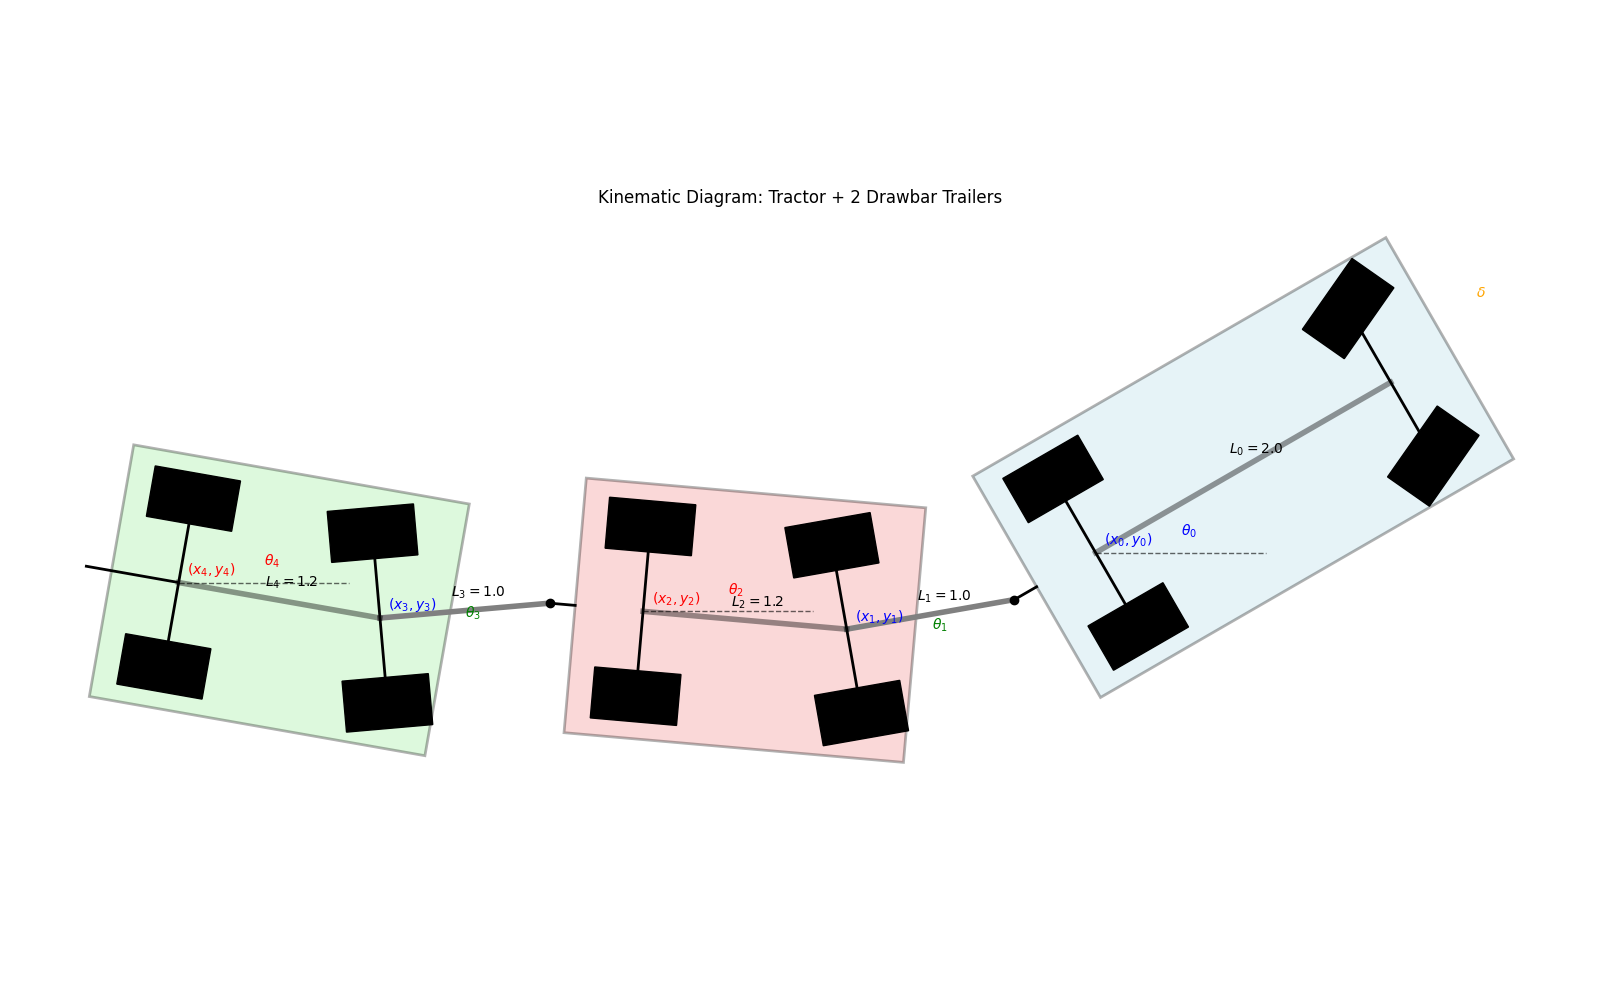
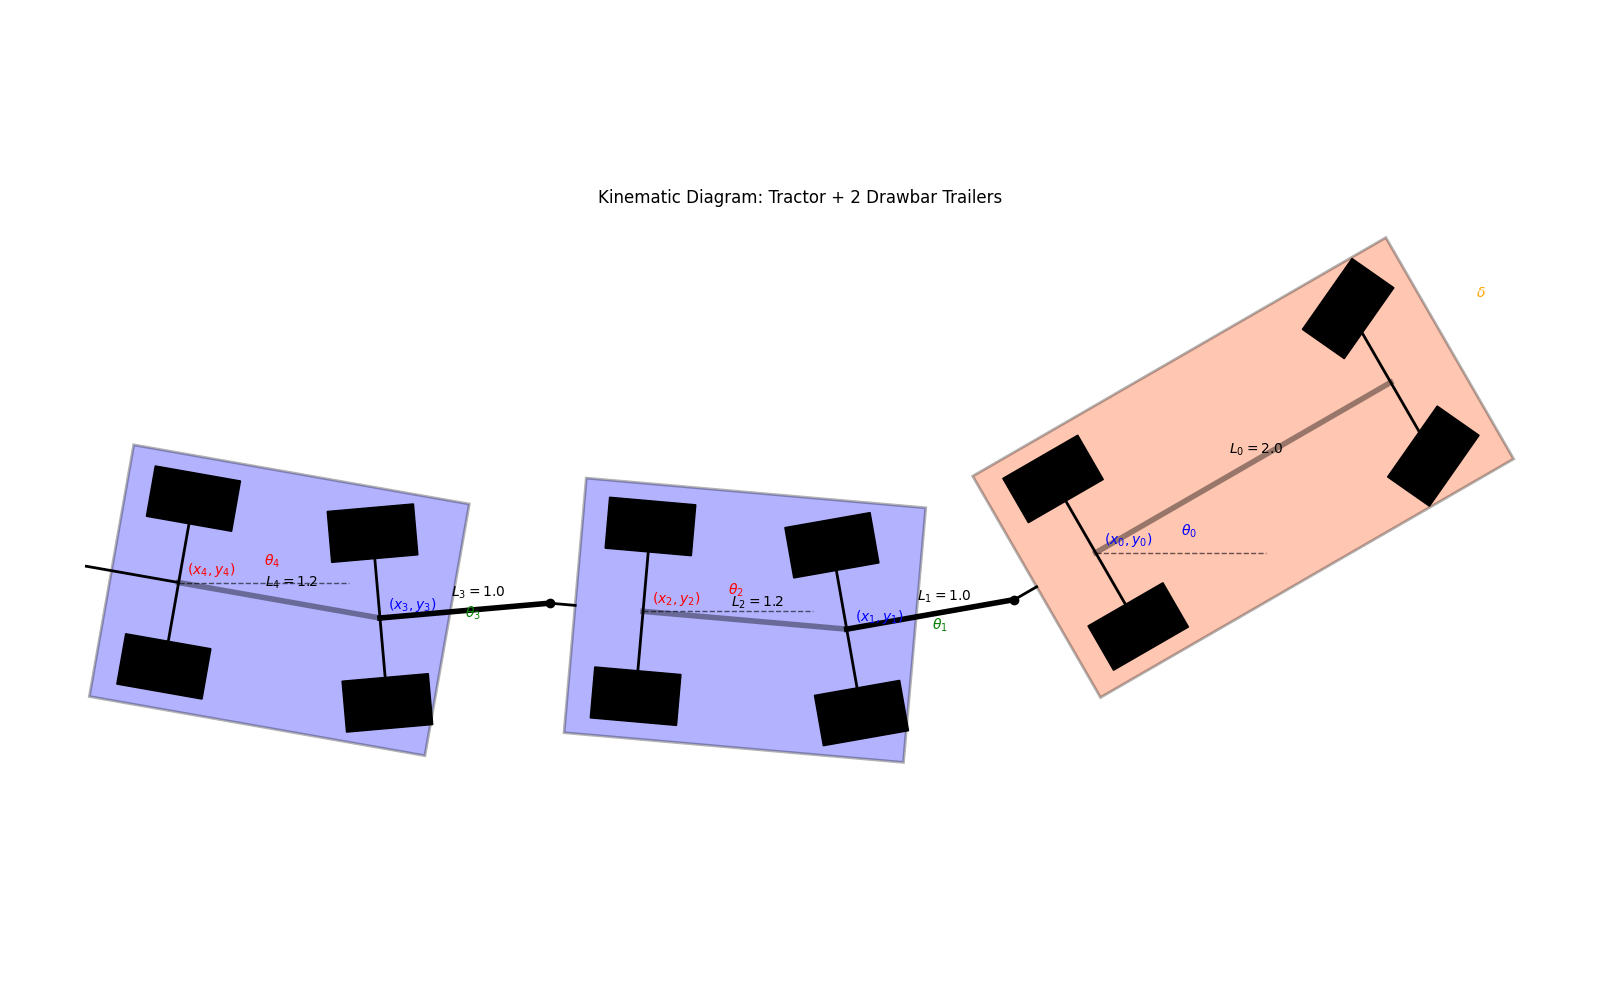
tracter with 2nd deawbar trailer 0.1.3

Changed region(s): [[0.0312, 0.248, 0.9688, 0.775]]

diff --git a/simulate.py b/simulate.py
@@ -6,7 +6,7 @@ from kinematic_model import TractorTrailerModel
 
 def simulate():
     # --- Parameters ---
-    SAVE_ANIMATION = False
+    SAVE_ANIMATION = True
     
     # Dimensions (meters)
     L0 = 2.0        # Tractor Wheelbase
@@ -130,10 +130,20 @@ def simulate():
         delta_curr = inputs[i, 1]
         vels = velocities[i] # [v1, v2, v3, v4]
         
+        # Calculate Relative Angles
+        # Drawbar 1 Angle (relative to Tractor)
+        psi1 = state[2] - state[3]
+        # Drawbar 2 Angle (relative to Trailer 1)
+        psi2 = state[4] - state[5]
+        
+        # Normalize angles to [-pi, pi] for display
+        psi1 = (psi1 + np.pi) % (2 * np.pi) - np.pi
+        psi2 = (psi2 + np.pi) % (2 * np.pi) - np.pi
+        
         # Update Status Text
         status_text.set_text(f'Tractor V: {v_curr:.2f} m/s\nSteering: {np.degrees(delta_curr):.2f} deg\n'
-                             f'Dolly 1 V: {vels[0]:.2f} m/s\nTrailer 1 V: {vels[1]:.2f} m/s\n'
-                             f'Dolly 2 V: {vels[2]:.2f} m/s\nTrailer 2 V: {vels[3]:.2f} m/s')
+                             f'Trailer 1 V: {vels[1]:.2f} m/s\nDrawbar 1 Ang: {np.degrees(psi1):.2f} deg\n'
+                             f'Trailer 2 V: {vels[3]:.2f} m/s\nDrawbar 2 Ang: {np.degrees(psi2):.2f} deg')
         
         x0, y0, theta0, theta1, theta2, theta3, theta4 = state
         
@@ -143,7 +153,7 @@ def simulate():
         # --- Tractor Body ---
         # Centered on Wheelbase (Midpoint of p0 and p0_f)
         p_tractor_c = (p0 + p0_f) / 2
-        patches_list.append(draw_box(ax, p_tractor_c, tractor_len, tractor_width, theta0, color='red', alpha=0.5))
+        patches_list.append(draw_box(ax, p_tractor_c, tractor_len, tractor_width, theta0, color='orangered', alpha=0.5))
         
         # Tractor Wheels
         patches_list.extend(draw_wheels_at_axle(ax, p0, theta0, W)) # Rear
@@ -156,7 +166,7 @@ def simulate():
         patches_list.append(l_tr_tail)
         
         # --- Drawbar 1 ---
-        l_db1, = ax.plot([h1[0], p1[0]], [h1[1], p1[1]], 'k-', lw=3, color='gray')
+        l_db1, = ax.plot([h1[0], p1[0]], [h1[1], p1[1]], 'k-', lw=3)
         patches_list.append(l_db1)
         
         # --- Trailer 1 Body ---
@@ -175,7 +185,7 @@ def simulate():
         patches_list.append(l_tl1_tail)
         
         # --- Drawbar 2 ---
-        l_db2, = ax.plot([h2[0], p3[0]], [h2[1], p3[1]], 'k-', lw=3, color='gray')
+        l_db2, = ax.plot([h2[0], p3[0]], [h2[1], p3[1]], 'k-', lw=3)
         patches_list.append(l_db2)
         
         # --- Trailer 2 Body ---

diff --git a/create_diagram.py b/create_diagram.py
@@ -122,7 +122,7 @@ def create_diagram(L0=2.0, L1=1.0, L2=1.2, L3=1.0, L4=1.2, W=1.5,
     p_tr_front_face = np.array([x0_f, y0_f]) + tractor_overhang * np.array([np.cos(theta0), np.sin(theta0)])
     p_tr_rear_face = np.array([x0, y0]) - tractor_overhang * np.array([np.cos(theta0), np.sin(theta0)])
     p_tr_c = (p_tr_front_face + p_tr_rear_face) / 2
-    draw_chassis(ax, p_tr_c, tractor_len, tractor_width, theta0, color='red', label='Tractor')
+    draw_chassis(ax, p_tr_c, tractor_len, tractor_width, theta0, color='orangered', label='Tractor')
     
     draw_wheel_pair(ax, (x0_f, y0_f), theta0, W, steered_angle=delta, color='black')
     draw_wheel_pair(ax, (x0, y0), theta0, W, color='black')
@@ -130,7 +130,7 @@ def create_diagram(L0=2.0, L1=1.0, L2=1.2, L3=1.0, L4=1.2, W=1.5,
     ax.plot([p_tr_rear_face[0], xh1], [p_tr_rear_face[1], yh1], 'k-', lw=2)
     
     # 2. Drawbar 1
-    ax.plot([xh1, x1], [yh1, y1], 'k-', lw=4, color='gray')
+    ax.plot([xh1, x1], [yh1, y1], 'k-', lw=4)
     
     # 3. Trailer 1
     p_tl1_rear_face = np.array([x2, y2]) - trailer_overhang * np.array([np.cos(theta2), np.sin(theta2)])
@@ -145,7 +145,7 @@ def create_diagram(L0=2.0, L1=1.0, L2=1.2, L3=1.0, L4=1.2, W=1.5,
     ax.plot([p_tl1_rear_face[0], xh2], [p_tl1_rear_face[1], yh2], 'k-', lw=2)
     
     # 4. Drawbar 2
-    ax.plot([xh2, x3], [yh2, y3], 'k-', lw=4, color='gray')
+    ax.plot([xh2, x3], [yh2, y3], 'k-', lw=4)
     
     # 5. Trailer 2
     p_tl2_c = (np.array([x3, y3]) + np.array([x4, y4])) / 2

diff --git a/README.md b/README.md
@@ -147,7 +147,34 @@ $$
 
 ---
 
-## 6. Constraints
+## 6. Coordinate Calculation (Forward Kinematics)
+
+The global coordinates $(x, y)$ of key points are calculated from the state vector for visualization:
+
+1.  **Tractor Front Axle ($P_{0,f}$)**:
+    $$ P_{0,f} = P_0 + L_0 \begin{bmatrix} \cos\theta_0 \\ \sin\theta_0 \end{bmatrix} $$
+
+2.  **Hitch 1 ($H_1$)**:
+    $$ H_1 = P_0 - d_h \begin{bmatrix} \cos\theta_0 \\ \sin\theta_0 \end{bmatrix} $$
+
+3.  **Trailer 1**:
+    *   **Dolly 1 ($P_1$)**:
+        $$ P_1 = H_1 - L_1 \begin{bmatrix} \cos\theta_1 \\ \sin\theta_1 \end{bmatrix} $$
+    *   **Axle 1 ($P_2$)**:
+        $$ P_2 = P_1 - L_2 \begin{bmatrix} \cos\theta_2 \\ \sin\theta_2 \end{bmatrix} $$
+
+4.  **Hitch 2 ($H_2$)**:
+    $$ H_2 = P_2 - d_{h2} \begin{bmatrix} \cos\theta_2 \\ \sin\theta_2 \end{bmatrix} $$
+
+5.  **Trailer 2**:
+    *   **Dolly 2 ($P_3$)**:
+        $$ P_3 = H_2 - L_3 \begin{bmatrix} \cos\theta_3 \\ \sin\theta_3 \end{bmatrix} $$
+    *   **Axle 2 ($P_4$)**:
+        $$ P_4 = P_3 - L_4 \begin{bmatrix} \cos\theta_4 \\ \sin\theta_4 \end{bmatrix} $$
+
+---
+
+## 7. Constraints
 
 *   **Steering Limit**: $\delta \in [-30^\circ, 30^\circ]$
 *   **Drawbar Limits**: Relative angle between units $\in [-30^\circ, 30^\circ]$
@@ -155,7 +182,7 @@ $$
 
 ---
 
-## 7. Usage
+## 8. Usage
 
 ### Run Simulation
 ```bash
@@ -174,7 +201,7 @@ python3 create_diagram.py
 
 ---
 
-## 8. Simulation Result
+## 9. Simulation Result
 
 Running `simulate.py` produces an animation of the vehicle trajectory.
 
